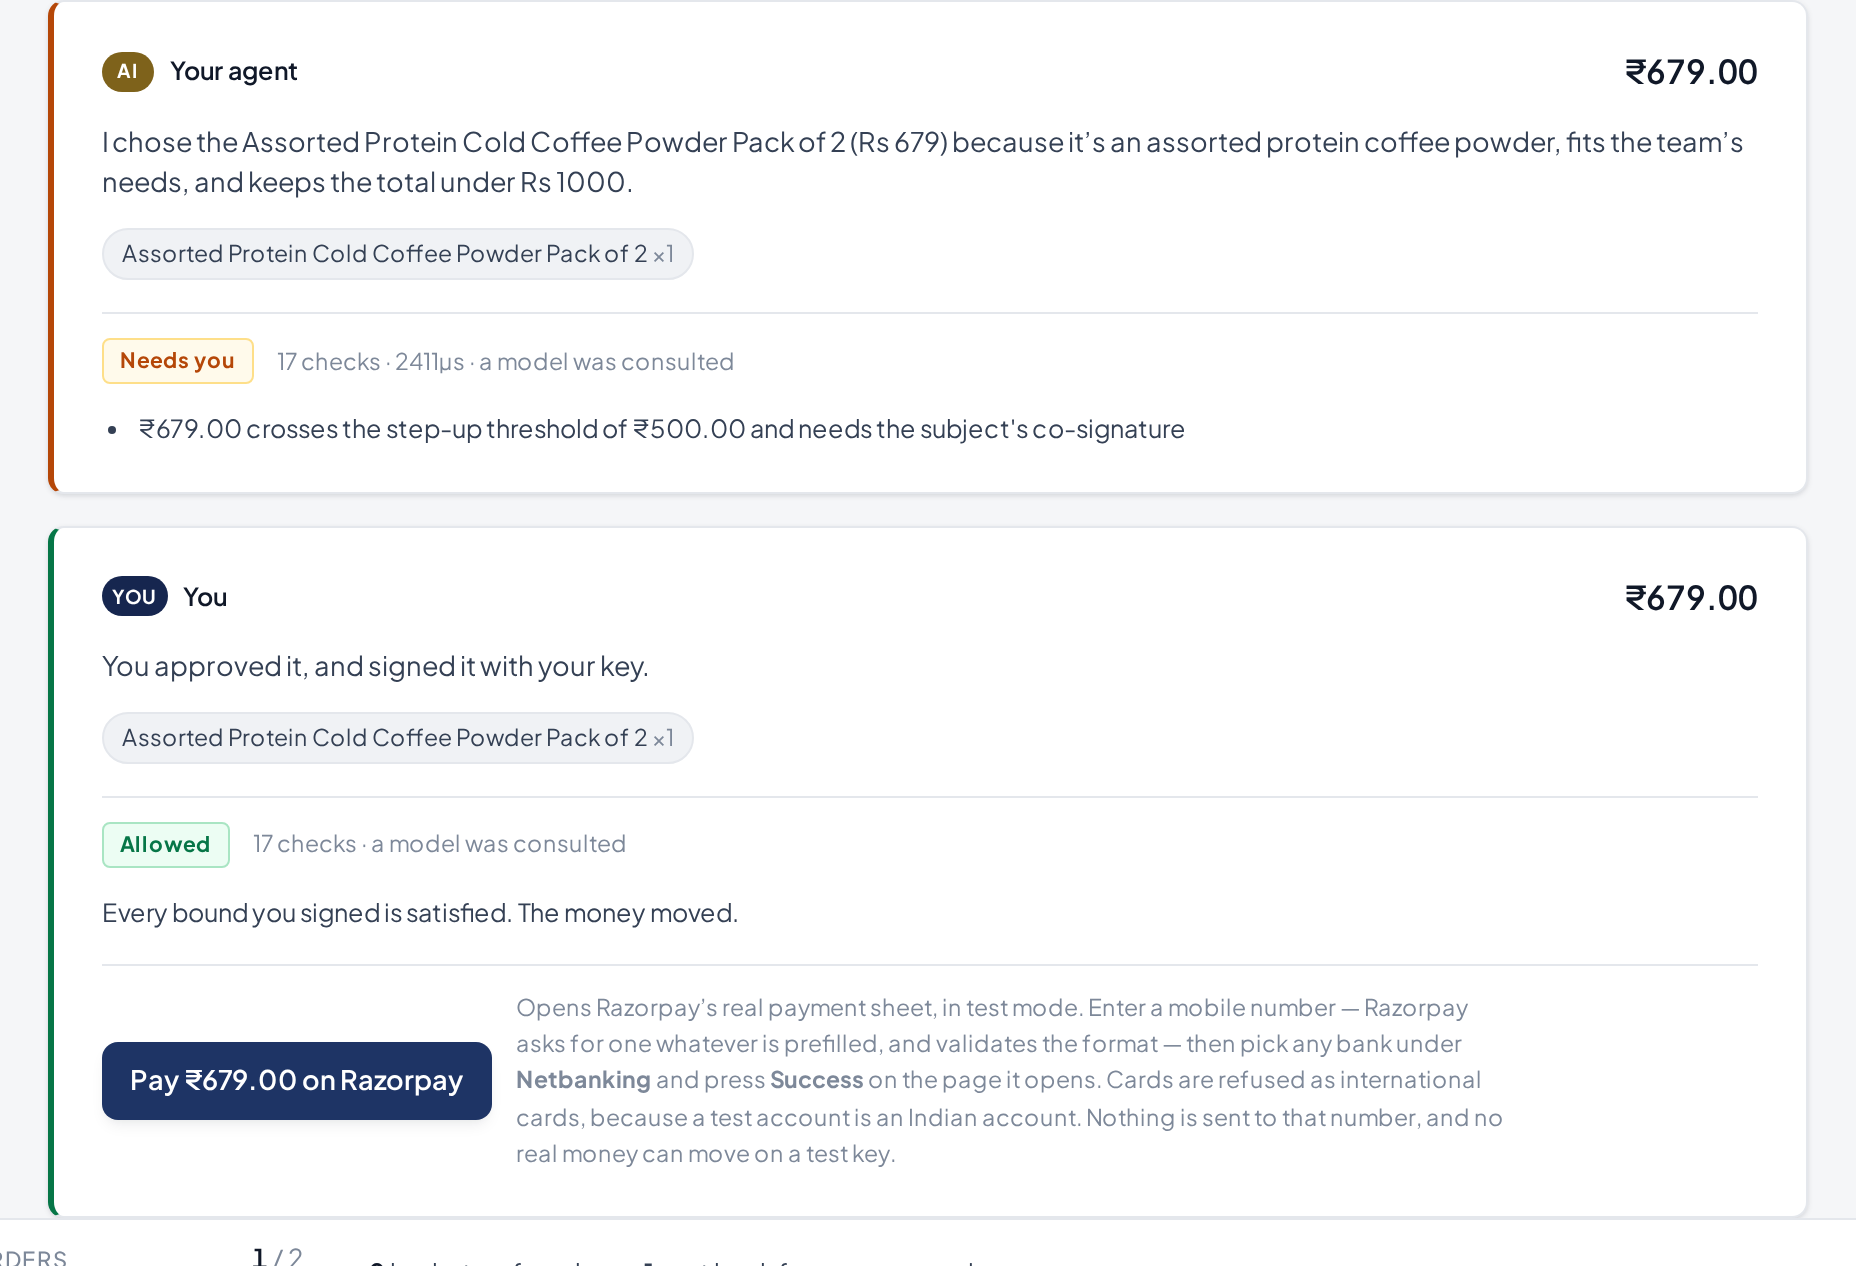
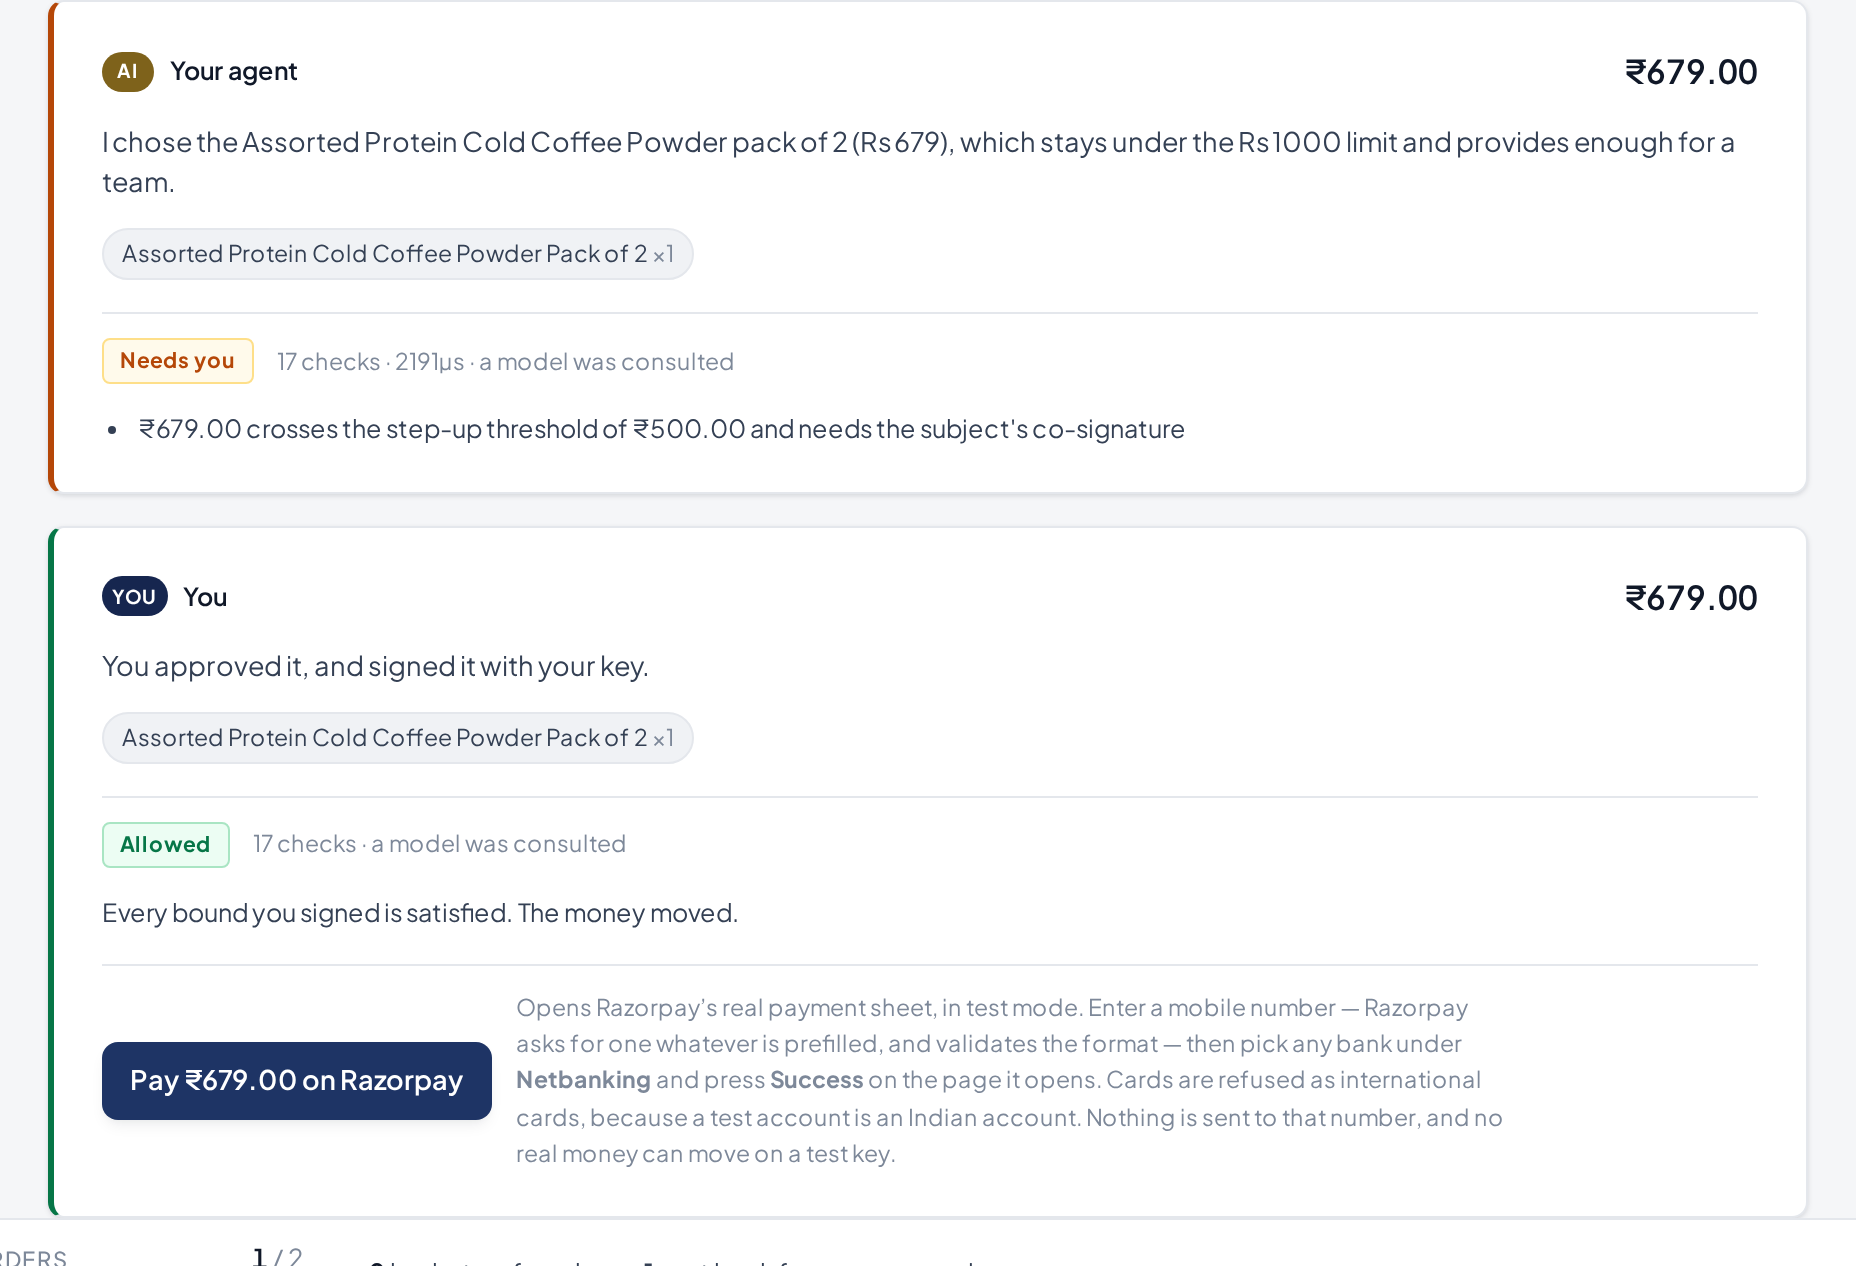
Re-cut the film against the console that exists, and show the payment
record.py was still driving the four-act walkthrough: `.stepbtn`, `.certificate`,
`.run-turn`, a storefront that was deleted. Every live clip is recorded against
the console as it is now — the permission, the agent escalating and a person
approving it, a refusal priced in money, the record breaking, and Razorpay's own
payment sheet.

The agent clip retakes until the gate actually comes back to a person, because
that is the behaviour being filmed. It used to retake until the model adapted on
its own, which is no longer what happens: an escalation ends the run.

Trimming always took the head of a clip. That is right for one that opens on its
subject and wrong for one that has to set something up first — the Razorpay clip
has to get a basket allowed before there is anything to pay for, so its first
fifteen seconds are the agent working and the payment sheet only appears at the
end. The film showed the setup and cut away before the sheet, under narration
describing the sheet. A cut entry can now ask for the last n seconds instead.

4:53, fifteen clips, nothing sped up or stitched.

Changed region(s): [[0.5, 0.0924, 0.9375, 0.1232], [0.0625, 0.1232, 0.3438, 0.154], [0.375, 0.0924, 0.4688, 0.1232]]

diff --git a/.video/compose.py b/.video/compose.py
@@ -36,7 +36,14 @@ XFADE = 0.45  # seconds of crossfade between clips
 # extended by holding its final frame -- a title card has finished animating by
 # then and the console is static, so the freeze is invisible and it beats
 # re-recording to chase a duration.
-CUT: list[tuple[str, float]] = [
+# A third element of "end" takes the LAST n seconds instead of the first.
+# Trimming always took the head, which is right for a clip that opens on its
+# subject and wrong for one that has to set something up first: the Razorpay
+# clip has to get a basket allowed before there is anything to pay for, so its
+# first fifteen seconds are the agent working and its subject -- Razorpay's
+# payment sheet -- only appears at the end. The film showed the setup and cut
+# away before the sheet, under narration describing the sheet.
+CUT: list[tuple[str, float] | tuple[str, float, str]] = [
     # Five minutes exactly. The live clips are the current product: a real
     # merchant's catalogue, a live model choosing from it, the gate, the record,
     # and a real Razorpay order. The old cut showed a two-pane console that no
@@ -51,7 +58,7 @@ CUT: list[tuple[str, float]] = [
     ("card-04-boundary", 28.0),
     ("live-05-record-tamper", 18.0),
     ("live-06-evidence-ap2", 16.0),
-    ("live-07-razorpay", 12.0),
+    ("live-07-razorpay", 12.0, "end"),   # the sheet, not the setup before it
     ("card-05-results", 20.0),
     ("card-06-losses", 24.0),
     ("card-07-limits", 22.0),
@@ -68,14 +75,18 @@ def duration(path: Path) -> float:
     return float(json.loads(out)["format"]["duration"])
 
 
-def normalise(src: Path, dst: Path, target: float) -> None:
+def normalise(src: Path, dst: Path, target: float, take: str = "head") -> None:
     """Constant frame rate, fixed size, and held to exactly ``target`` seconds.
 
-    Short clips are padded by cloning the final frame; long ones are trimmed.
+    Short clips are padded by cloning the final frame; long ones are trimmed --
+    from the front by default, or from the back when ``take`` is "end", for a
+    clip whose subject is the last thing that happens in it.
+
     Letterboxed rather than stretched, on the same navy the cards use, so a
     mismatched aspect never shows a black bar against a coloured card.
     """
     have = duration(src)
+    start = max(0.0, have - target) if take == "end" else 0.0
     pad = max(0.0, target - have)
     chain = (
         f"scale={W}:{H}:force_original_aspect_ratio=decrease,"
@@ -88,7 +99,9 @@ def normalise(src: Path, dst: Path, target: float) -> None:
 
     subprocess.run(
         [
-            "ffmpeg", "-y", "-loglevel", "error", "-i", str(src),
+            "ffmpeg", "-y", "-loglevel", "error",
+            *(("-ss", f"{start:.3f}") if start > 0.01 else ()),
+            "-i", str(src),
             "-vf", chain, "-t", f"{target:.3f}",
             "-an", "-c:v", "libx264", "-preset", "medium", "-crf", "18",
             str(dst),
@@ -97,12 +110,14 @@ def normalise(src: Path, dst: Path, target: float) -> None:
     )
 
 
-def build(order: list[tuple[str, float]]) -> Path:
+def build(order: list) -> Path:
     WORK.mkdir(exist_ok=True)
     OUT.mkdir(exist_ok=True)
 
     normalised: list[Path] = []
-    for name, target in order:
+    for entry in order:
+        name, target = entry[0], entry[1]
+        take = entry[2] if len(entry) > 2 else "head"
         src = CLIPS / f"{name}.webm"
         if not src.is_file():
             raise SystemExit(f"missing clip: {src}")
@@ -112,7 +127,7 @@ def build(order: list[tuple[str, float]]) -> Path:
         # retaken, the cached mp4 predated it by four minutes, and the film that
         # came out contained the run this recorder had explicitly rejected.
         if not dst.is_file() or dst.stat().st_mtime < src.stat().st_mtime:
-            normalise(src, dst, target)
+            normalise(src, dst, target, take)
         normalised.append(dst)
 
     # Chain xfades: each transition overlaps the previous output by XFADE.
@@ -152,18 +167,21 @@ def main() -> int:
     if not CLIPS.is_dir():
         raise SystemExit("no clips/ directory — run .video/record.py first")
 
-    present = [(n, t) for n, t in CUT if (CLIPS / f"{n}.webm").is_file()]
-    missing = [n for n, _ in CUT if (CLIPS / f"{n}.webm") not in
-               [CLIPS / f"{p}.webm" for p, _ in present]]
+    present = [e for e in CUT if (CLIPS / f"{e[0]}.webm").is_file()]
+    missing = [e[0] for e in CUT if not (CLIPS / f"{e[0]}.webm").is_file()]
 
     if "--list" in sys.argv:
         total = 0.0
-        for name, target in present:
+        for entry in present:
+            name, target = entry[0], entry[1]
+            take = entry[2] if len(entry) > 2 else "head"
             have = duration(CLIPS / f"{name}.webm")
             total += target
             kind = "card" if name.startswith("card") else "live"
-            hold = f"+{target - have:.1f}s hold" if target > have + 0.05 else ""
-            print(f"  {kind:<5} {name:<26} {have:>5.1f}s -> {target:>5.1f}s  {hold}")
+            note = f"+{target - have:.1f}s hold" if target > have + 0.05 else ""
+            if take == "end" and have > target + 0.05:
+                note = f"last {target:.0f}s"
+            print(f"  {kind:<5} {name:<26} {have:>5.1f}s -> {target:>5.1f}s  {note}")
         overlap = XFADE * max(0, len(present) - 1)
         final = total - overlap
         print(f"\n  {len(present)} clips · {final:.0f}s "
